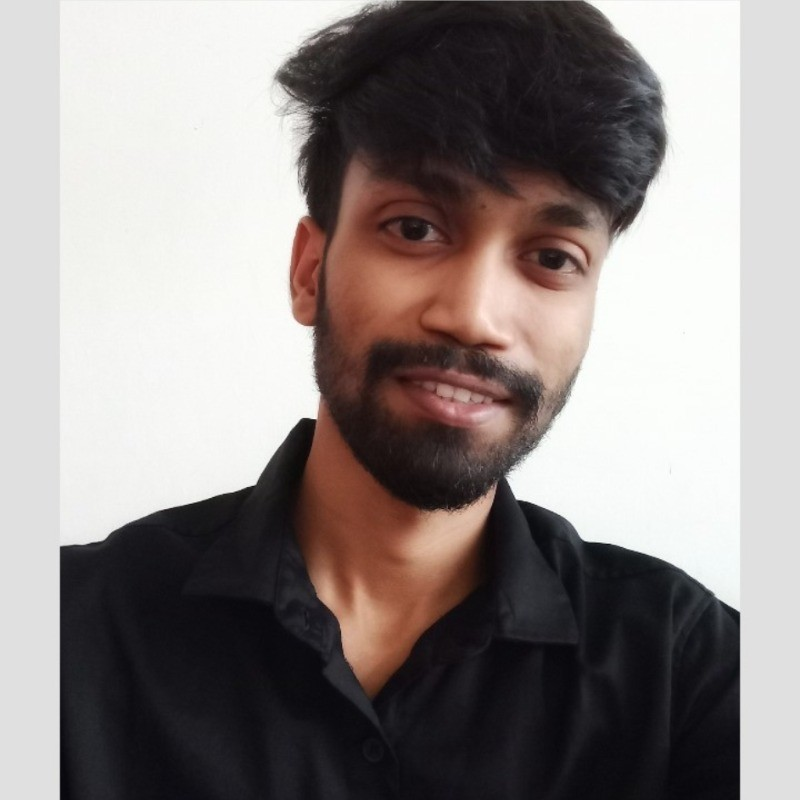
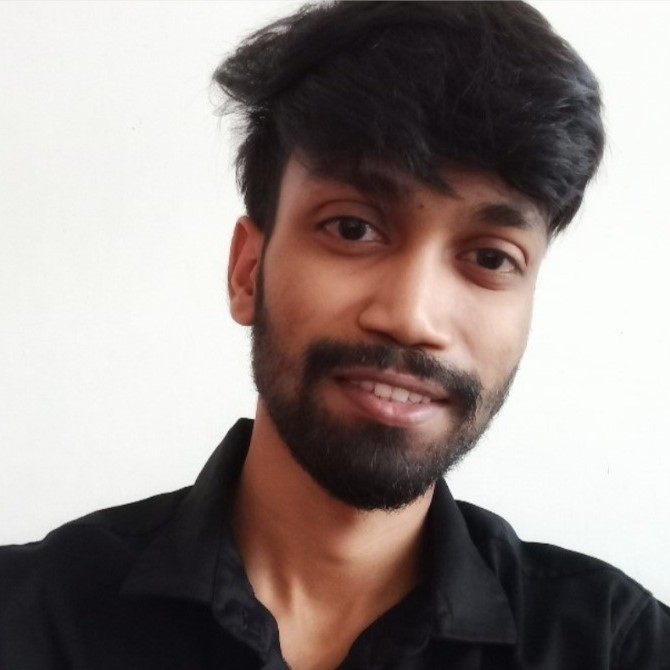
team page addition

diff --git a/src/pages/team/Team.jsx b/src/pages/team/Team.jsx
@@ -1,7 +1,6 @@
 import React from "react";
 import "./Team.css";
 import Navbar from "../../components/Navbar/Navbar";
-import Footer from "../../components/Footer/Footer";
 
 const Team = () => {
   const teamMembers = [
@@ -13,7 +12,7 @@ const Team = () => {
     },
     {
       name: "Shibam Debnath",
-      image: "/images/Shibam1.jpg",
+      image: "/images/shibam.jpeg",
       github: "https://github.com/shibam-debnath",
       linkedIn: "https://www.linkedin.com/in/shibam-debnath-25b235206/",
     },
@@ -31,75 +30,63 @@ const Team = () => {
     },
     {
       name: "Rituraj Chanda",
-      image: "/images/Suraj.jpg",
+      image: "/images/rituraj.jpeg",
       github: "https://github.com/Suraj1520",
       linkedIn: "https://www.linkedin.com/in/riturajchanda2001/",
     },
   ];
   return (
-    <>
-      <div class="back1">
-        <Navbar />
-        <section class="md:h-full flex items-center text-white">
-          <div class="container px-5 pt-16 pb-2 mx-auto">
-            <div class="text-center mb-12">
-              <h5 class="text-base md:text-lg text-indigo-700  mt-6 mb-1">
-                See Our Team Members
-              </h5>
-              <h3 class="text-4xl md:text-6xl text-white font-semibold">
-                Team members
-              </h3>
-            </div>
-            <div class="flex flex-wrap -m-2">
-              {teamMembers.map((items) => (
-                <div class="p-4 sm:w-1/2 lg:w-1/4">
-                  <div class="h-full border-2 border-gray-200 border-opacity-60 rounded-lg overflow-hidden">
-                    <img
-                      class="lg:h-72 md:h-48 w-full object-cover object-center"
-                      src={items.image}
-                      alt="blog"
-                    ></img>
-                    <div class="p-6 hover:bg-indigo-700 hover:text-white transition duration-300 ease-in">
-                      <h1 class="text-2xl font-semibold mb-3">{items.name}</h1>
-                      <p class="leading-relaxed mb-3">
-                        Lorem ipsum dolor sit amet consectetur adipisicing elit.
-                        Aperiam modi, expedita quos doloremque autem ipsum
-                        itaque incidunt ipsam reprehenderit fuga! Dolores
-                        quisquam eius cum accusamus?
-                      </p>
-                      <div className="flex justify-center flex-wrap mt-4">
-                        <ul className="flex justify-center space-x-5">
-                          <li className="hover:scale-[1.5]">
-                            <a href={items.github}>
-                              <img
-                                src="./images/github.svg"
-                                alt=" "
-                                className="h-8"
-                              ></img>
-                            </a>
-                          </li>
-                          <li className="hover:scale-[1.5]">
-                            <a href={items.linkedIn}>
-                              <img
-                                src="./images/linkedin.svg"
-                                alt=" "
-                                className="h-8 "
-                              ></img>
-                            </a>
-                          </li>
-                        </ul>
-                      </div>
-                    </div>
-                  </div>
-                </div>
-              ))}
+    <div className="bg-BG2">
+        <div >
+          <Navbar/>
+        </div>
+          
+        <link rel="stylesheet" href="https://cdn.materialdesignicons.com/6.5.95/css/materialdesignicons.min.css"/>
+        <div class="flex items-center justify-center min-h-screen py-10">
+            <div class="flex flex-col">
+                <div class="flex flex-col mt-6">
+                    <div class="container max-w-7xl px-4">
+                        <div class="flex flex-wrap justify-center text-center mb-14">
+                            <div class="w-full lg:w-6/12 px-4">
+                                <h1 class="text-slate-300 text-4xl font-semibold">
+                                    Meet the Team
+                                </h1>
+                            </div>
+                        </div>
+                         {/* members  */}
+                        <div class="flex justify-center flex-wrap gap-2 lg:px-20">
+                            {teamMembers.map((item)=>(
+                                <div class="w-full md:w-6/12 lg:w-3/12 mb-6 px-6 sm:px-6 lg:px-4 lg:mx-5">
+                                    <div class="flex flex-col items-center">
+                                          <img alt="img" class="h-36 w-36 rounded-2xl drop-shadow-md hover:drop-shadow-xl transition-all duration-200 delay-100"
+                                                src={item.image}/>
 
+                                        {/* <!-- Details --> */}
+                                        <div class="text-center mt-6">
+
+                                            <h1 class="text-slate-400 text-xl font-sans font-semibold  mb-1">
+                                                {item.name}
+                                            </h1>
+                                            <div class="flex items-center justify-center opacity-50 hover:opacity-100
+                                            transition-opacity duration-300">
+                                                <a href={item.linkedIn} class="flex rounded-full hover:bg-indigo-50 h-10 w-10">
+                                                    <i class="mdi mdi-linkedin text-indigo-500 mx-auto mt-2"></i>
+                                                </a>
+                                                <a href={item.github} class="flex rounded-full hover:bg-blue-50 h-10 w-10">
+                                                    <i class="mdi mdi-twitter text-blue-300 mx-auto mt-2"></i>
+                                                </a>
+                                            </div>
+                                        </div>
+                                    </div>
+                                </div>
+                            ))}
+                        </div>
+                    </div>
+                </div>
             </div>
-          </div>
-        </section>
-      </div>
-    </>
-  );
-};
+        </div>
+        </div>
+      );
+}
 
 export default Team;

diff --git a/src/pages/team/Team.css b/src/pages/team/Team.css
@@ -1,6 +1,5 @@
-.back1{
+.bg{
     background: #111827;  /* fallback for old browsers */
     background: -webkit-linear-gradient(to right, #111827, #1c1848, #111827);  /* Chrome 10-25, Safari 5.1-6 */
     background: linear-gradient(to top right, #111827, #1c1848, #111827); /* W3C, IE 10+/ Edge, Firefox 16+, Chrome 26+, Opera 12+, Safari 7+ */
-
 }

diff --git a/tailwind.config.js b/tailwind.config.js
@@ -12,6 +12,7 @@ module.exports = {
       },
       backgroundImage: {
         dashboardBG: "url('../public/images/BG.svg')",
+        BG2: "url('../public/images/BG2.svg')",
       },
     },
   },

diff --git a/src/App.css b/src/App.css
@@ -101,6 +101,4 @@
     flex-direction: column;
   }
 
-
-
 }
